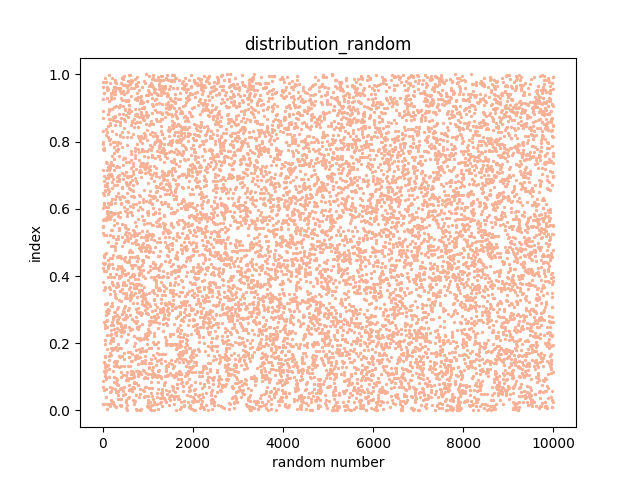
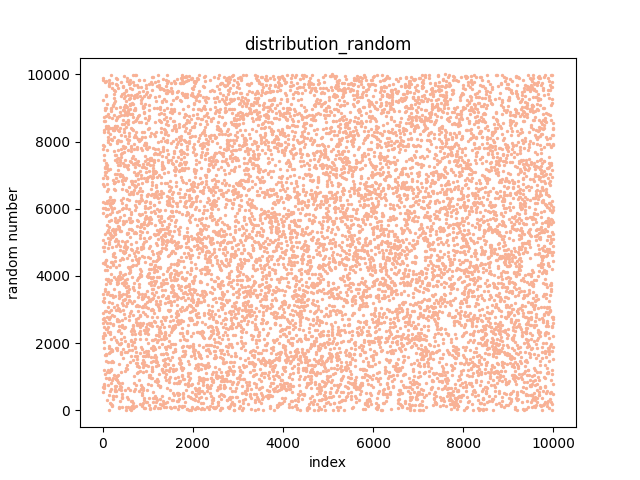
changing distirubiton_random()

diff --git a/cse107/prog1.py b/cse107/prog1.py
@@ -29,10 +29,13 @@ Hint(s):
 def distribution_random():
     np.random.seed(0)
     x_vals = np.arange(10000)
-    y_vals = np.random.random(10000)
+    y_vals = []
+    for i in range(10000):
+        y_vals.append(np.random.randint(0,9999))
+    
     plt.scatter(x_vals, y_vals, c = '#F8B195', s = 2)
-    plt.xlabel("random number")
-    plt.ylabel("index")
+    plt.ylabel("random number")
+    plt.xlabel("index")
     plt.title("distribution_random")
     plt.savefig("distribution_random.png")
     plt.show()
@@ -45,8 +48,8 @@ def distribution_KISS():
         y_vals.append(next(rng_kiss) % 10000)
 
     plt.scatter(x_vals, y_vals, c = '#F67280', s = 2)
-    plt.xlabel("random number")
-    plt.ylabel("index")
+    plt.ylabel("random number")
+    plt.xlabel("index")
     plt.title("distribution_KISS")
     plt.savefig("distribution_KISS.png")
     plt.show()
@@ -59,8 +62,8 @@ def distribution_SHR3():
         y_vals.append(next(rng_shr3) % 10000)
 
     plt.scatter(x_vals, y_vals, c = '#C06C84', s = 2)
-    plt.xlabel("random number")
-    plt.ylabel("index")
+    plt.ylabel("random number")
+    plt.xlabel("index")
     plt.title("distribution_SHR3")
     plt.savefig("distribution_SHR3.png")
     plt.show()
